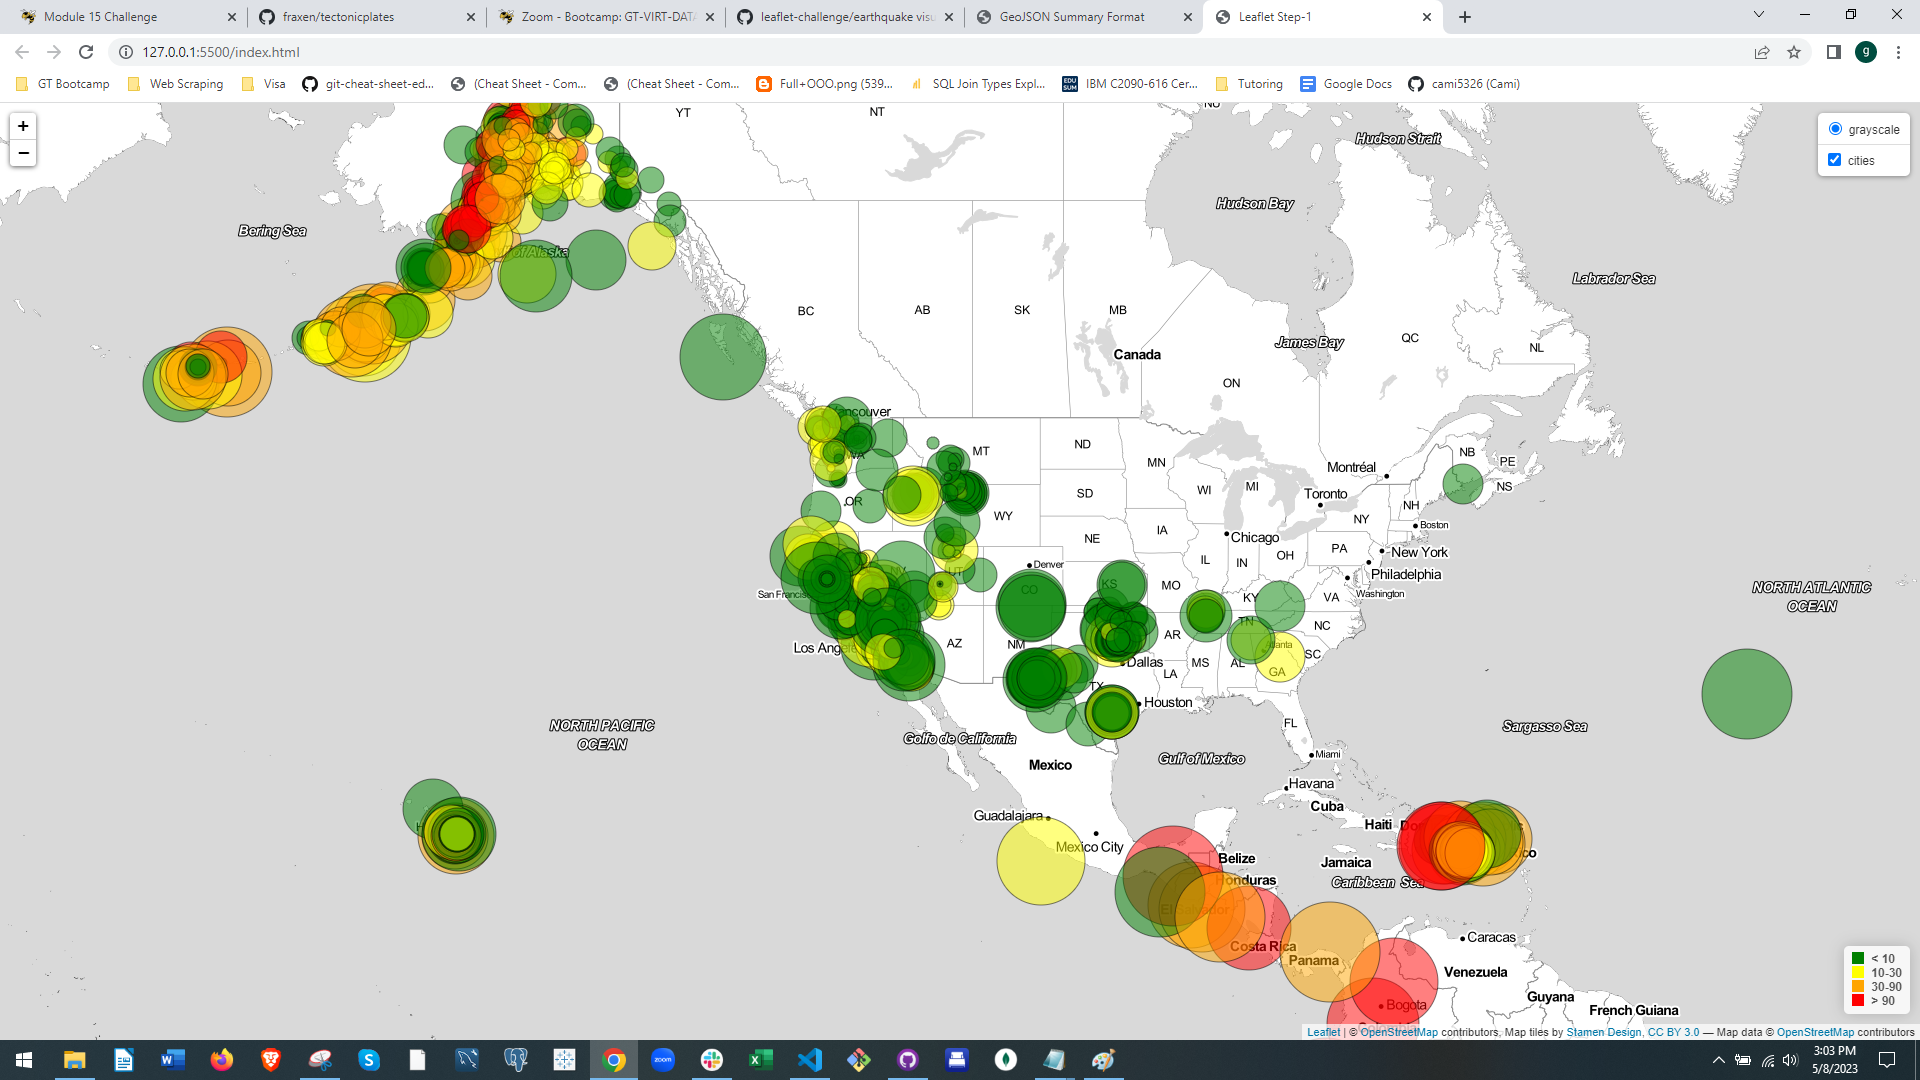
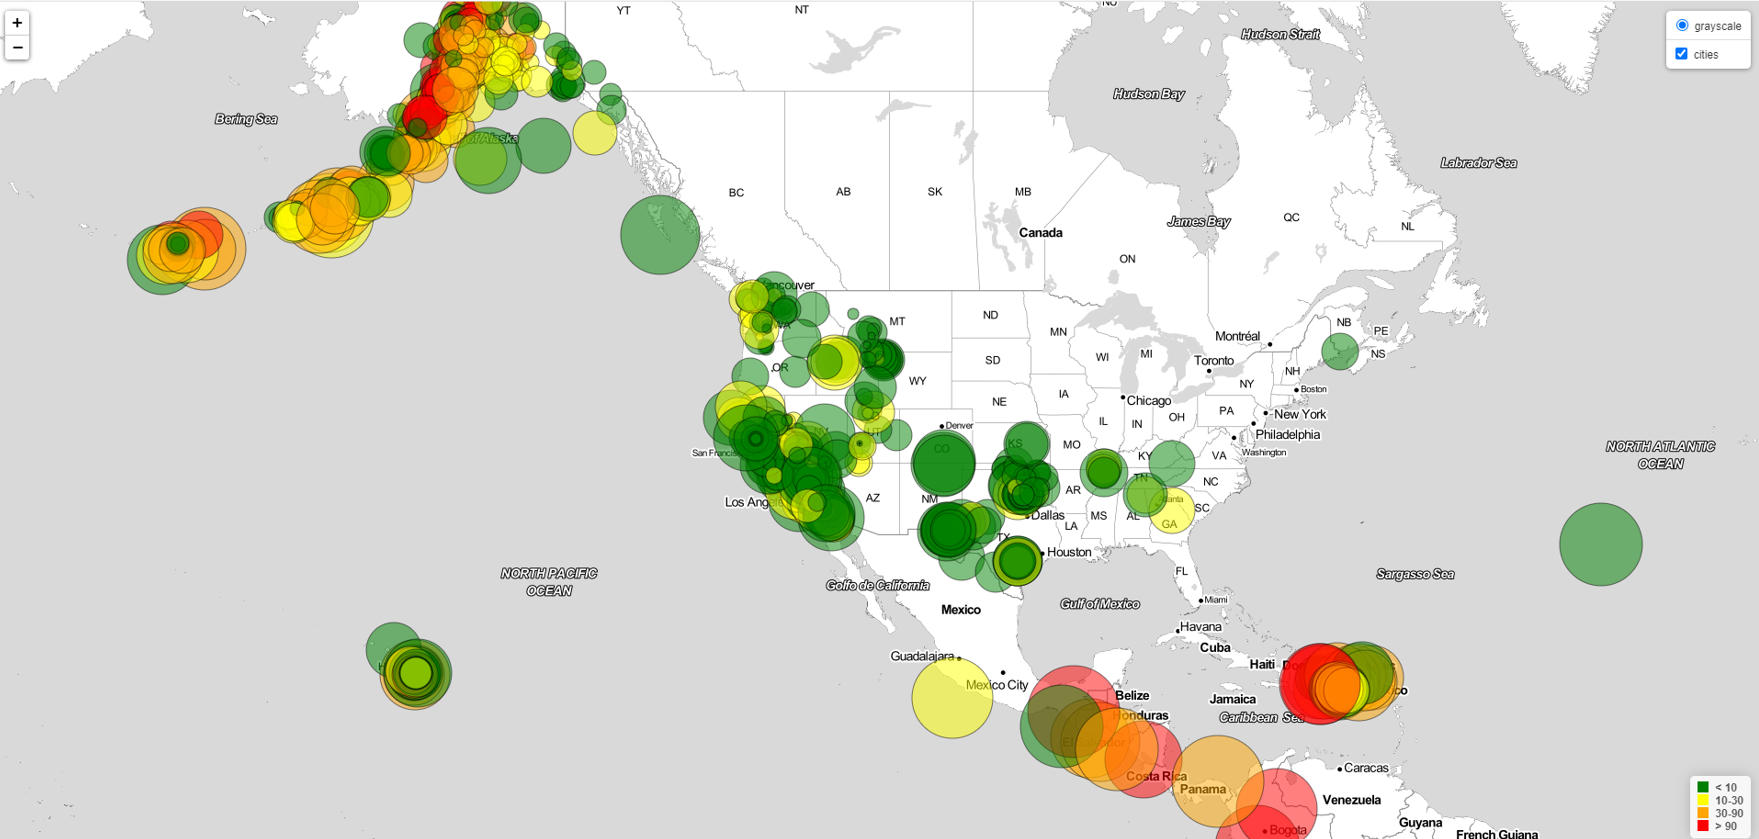
Update visualization

diff --git a/README.md b/README.md
@@ -4,4 +4,4 @@ In this activity, it was requested a earthquake visualization of the [USGS data]
 
 ![earthquake visualization](https://github.com/cami5326/leaflet-challenge/blob/main/pictures/earthquake%20visualization.png)
 
-![greyscale visualization](https://github.com/cami5326/leaflet-challenge/blob/main/pictures/earthquake%20visualization.png)
+![greyscale visualization](https://github.com/cami5326/leaflet-challenge/blob/main/pictures/greyscale%20visualization.png)
